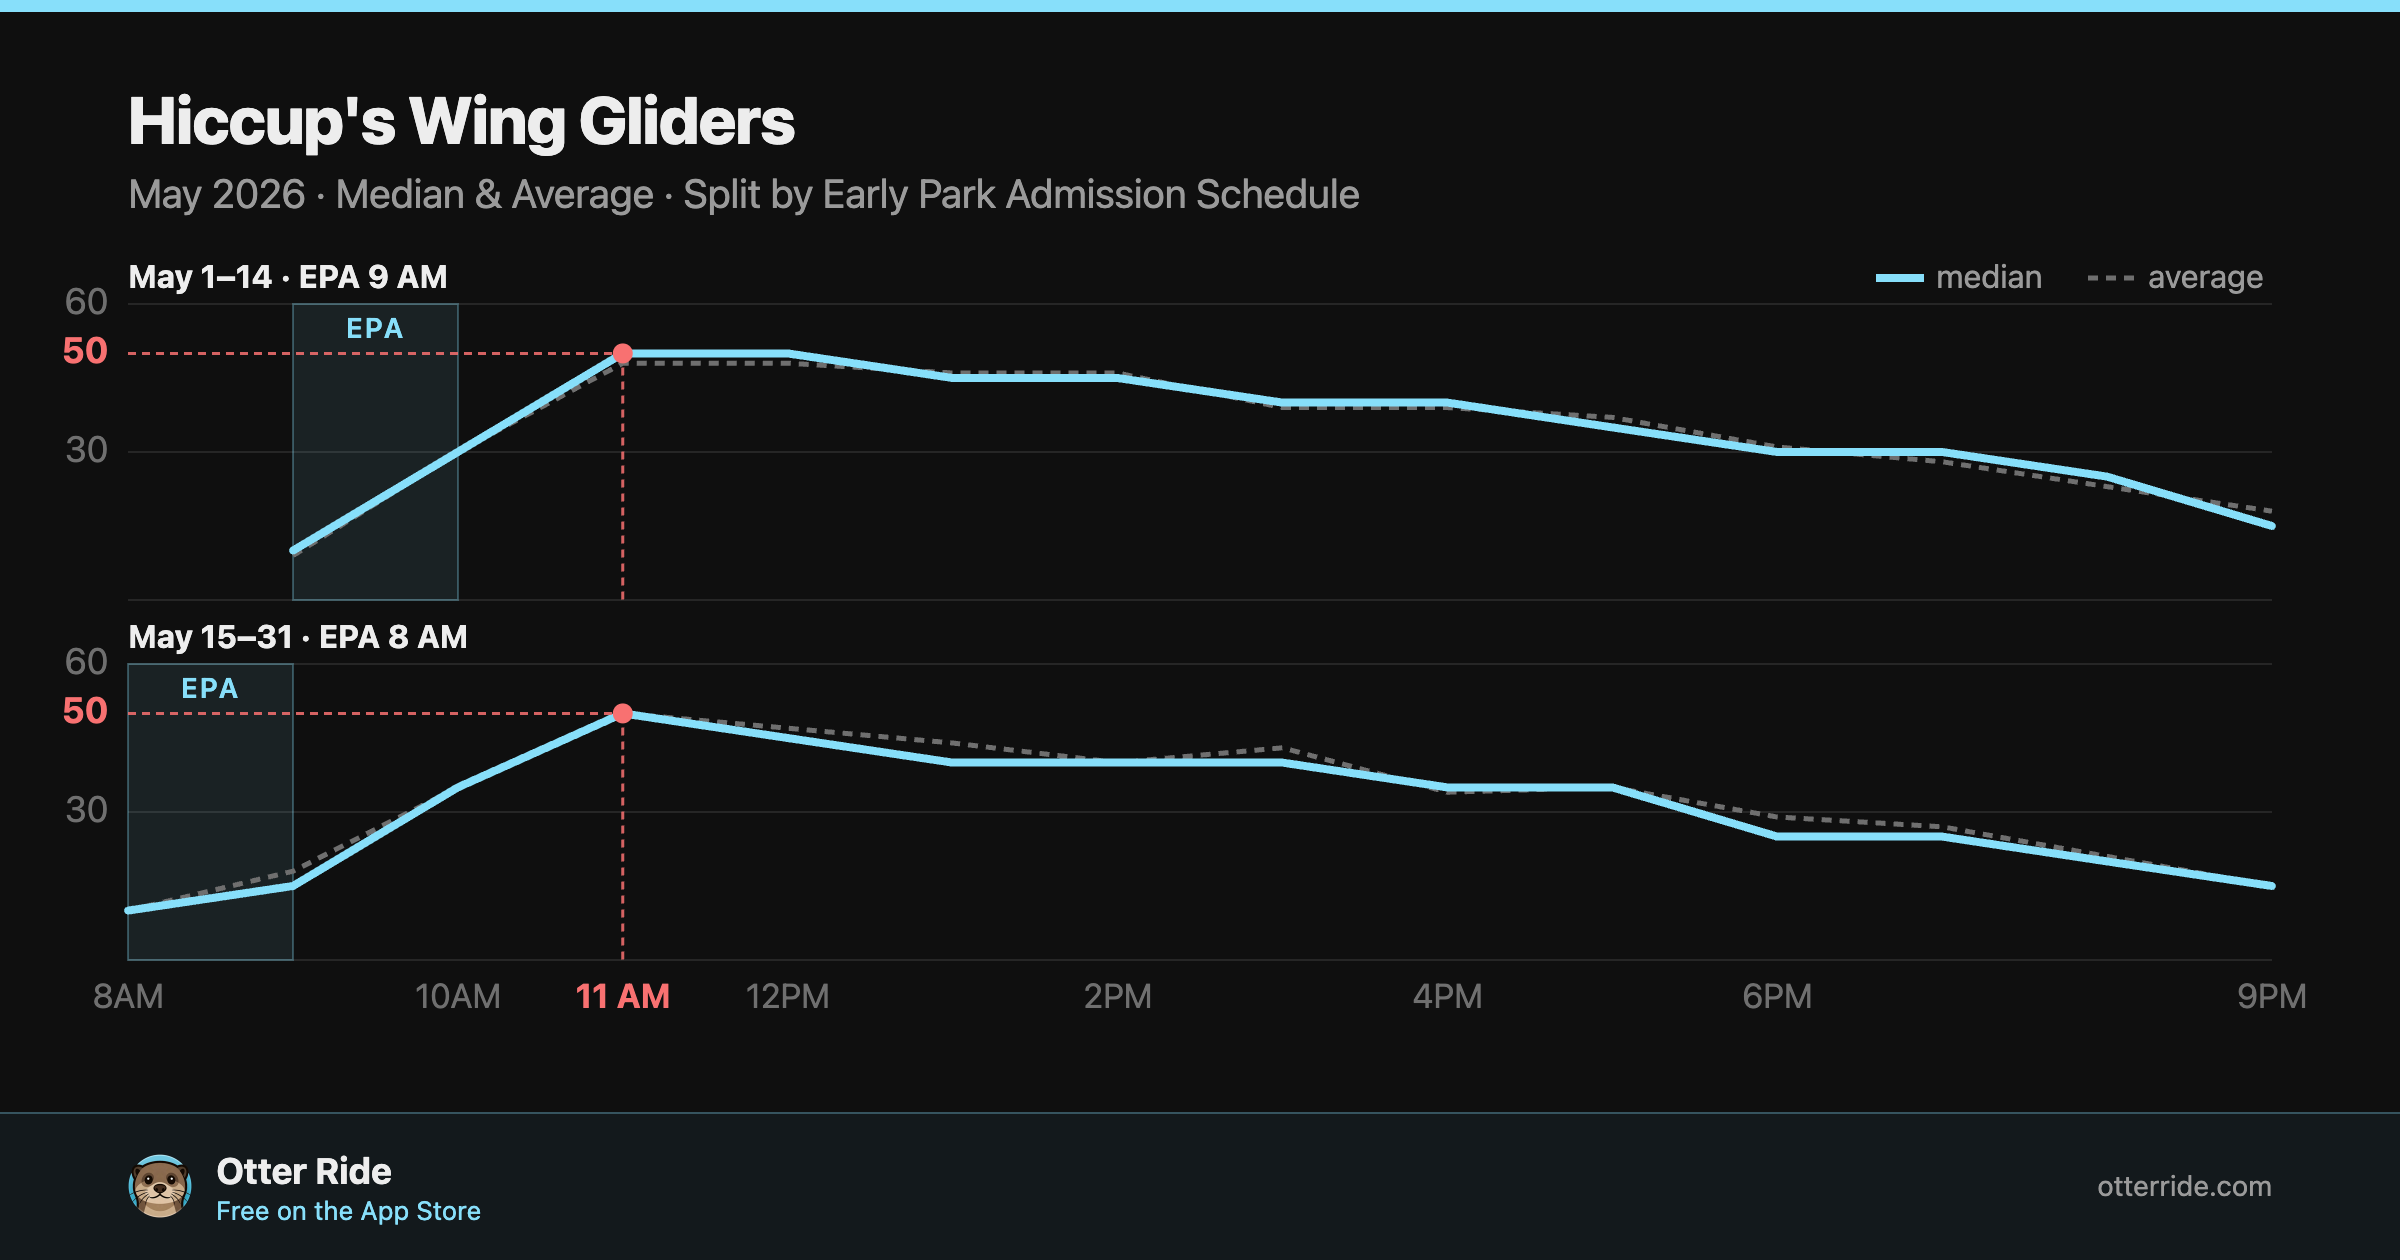
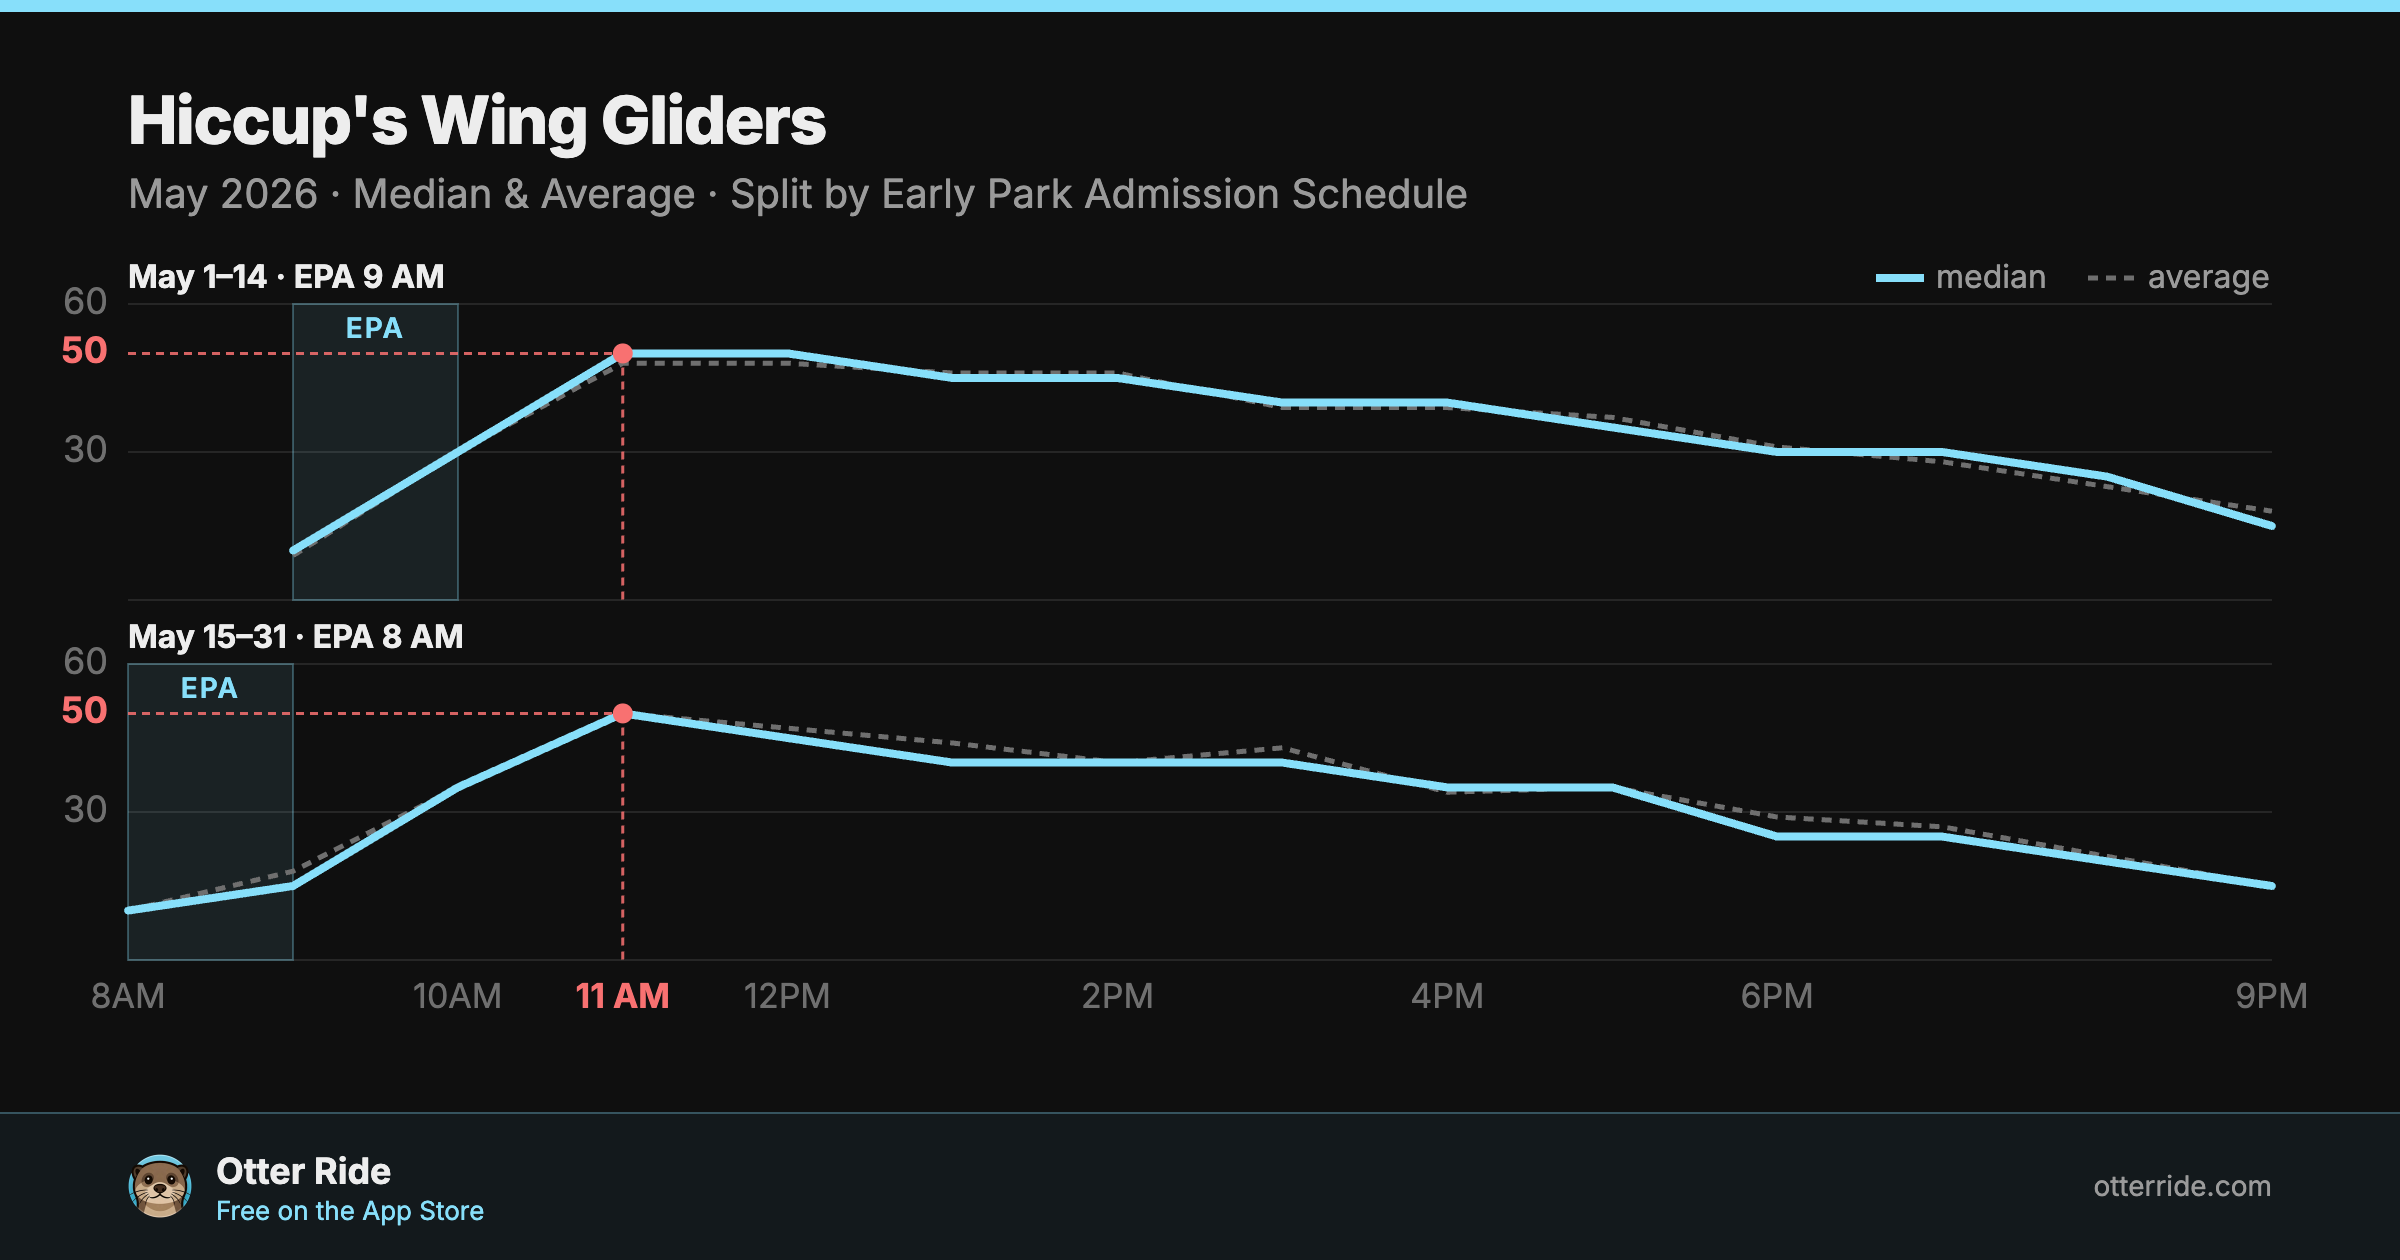
Publish: EPA delays infographic + onset-only EPA rule (Mine-Cart 26%)

diff --git a/otterride/blog/epic-universe-wait-times-may-2026/index.html b/otterride/blog/epic-universe-wait-times-may-2026/index.html
@@ -2,4 +2,4 @@
 <strong>45-minute peak at 11 AM</strong>, holds through midday, then eases back to about <strong>15</strong> by
 close. From 11 AM to 3 PM the median runs <strong>40 minutes</strong>, roughly double the <strong>20-minute</strong>
 median after 7 PM. (Averages sit higher, peaking near 52 minutes, because a few long-wait
-headliners drag the mean up.)</p><p><strong>The first hour and the last two hours generally have lower wait times (with a few exceptions).</strong></p><h2 id=wait-times-barely-vary-by-day-of-the-week>Wait times barely vary by day of the week</h2><figure class=orw-chartimg><img src=/otterride/blog/epic-universe-wait-times-may-2026/day-of-week.png alt="Epic Universe median and average standby wait by day of week, May 2026" loading=lazy></figure><p>Sundays have the lowest wait times and Thursdays the longest, but day to day they barely move: the spread between the best and worst day is about <strong>9 minutes</strong> by average and <strong>10</strong> by median.</p><hr><h2 id=attraction-uptime-was-pretty-good-with-one-outlier>Attraction uptime was pretty good, with one outlier</h2><figure class=orw-chartimg><img src=/otterride/blog/epic-universe-wait-times-may-2026/uptime.png alt="Epic Universe attraction uptime in May 2026, ranked most to least reliable, with weather and non-weather downtime" loading=lazy></figure><figure class=orw-chartimg><img src=/otterride/blog/epic-universe-wait-times-may-2026/closures.png alt="Epic Universe attraction closures in May 2026, ranked by total closures, with days affected, average closure duration, and average wait when the ride went down" loading=lazy></figure><p>Uptime is the share of time a ride was operating during park hours, with downtime split between weather and everything else. Rides that skip Early Park Admission aren&rsquo;t counted as down during that hour. As one would expect, the indoor rides, like Monsters Unchained, Battle at the Ministry, and Mario Kart, didn&rsquo;t log a single weather delay.</p><p>Mine-Cart Madness had issues in May. It ran only <strong>83%</strong> of its operating hours, the lowest uptime of any ride in the park, and most of that downtime was mechanical, not weather. The ride is both popular and, sadly, relatively unavailable about 1/6 of the time. Even with weather delays removed from the equation just for Mine-Cart, it still had the least uptime of any attraction at Epic.</p><hr><h2 id=which-rides-actually-eat-your-day>Which rides actually eat your day</h2><p>Expand any attraction to see how its wait times update across the day.</p><h3 class=orw-land>Super Nintendo World</h3><details class=orw-ride><summary><span class=orw-ride-name>Bowser Jr. Challenge</span></summary><img class=orw-ride-img src=/otterride/blog/epic-universe-wait-times-may-2026/ride-bowser-jr-challenge.png alt="Bowser Jr. Challenge: standby wait by hour, May 2026" loading=lazy></details><details class=orw-ride><summary><span class=orw-ride-name>Mario Kart™: Bowser's Challenge</span></summary><img class=orw-ride-img src=/otterride/blog/epic-universe-wait-times-may-2026/ride-mario-kart-bowser-s-challenge.png alt="Mario Kart™: Bowser's Challenge: standby wait by hour, May 2026" loading=lazy></details><details class=orw-ride><summary><span class=orw-ride-name>Mine-Cart Madness™</span></summary><img class=orw-ride-img src=/otterride/blog/epic-universe-wait-times-may-2026/ride-mine-cart-madness.png alt="Mine-Cart Madness™: standby wait by hour, May 2026" loading=lazy></details><details class=orw-ride><summary><span class=orw-ride-name>Yoshi's Adventure™</span></summary><img class=orw-ride-img src=/otterride/blog/epic-universe-wait-times-may-2026/ride-yoshi-s-adventure.png alt="Yoshi's Adventure™: standby wait by hour, May 2026" loading=lazy></details><h3 class=orw-land>The Wizarding World of Harry Potter: Ministry of Magic</h3><details class=orw-ride><summary><span class=orw-ride-name>Harry Potter and the Battle at the Ministry™</span></summary><img class=orw-ride-img src=/otterride/blog/epic-universe-wait-times-may-2026/ride-harry-potter-and-the-battle-at-the-ministry.png alt="Harry Potter and the Battle at the Ministry™: standby wait by hour, May 2026" loading=lazy></details><h3 class=orw-land>How to Train Your Dragon: Isle of Berk</h3><details class=orw-ride><summary><span class=orw-ride-name>Dragon Racer's Rally</span></summary><img class=orw-ride-img src=/otterride/blog/epic-universe-wait-times-may-2026/ride-dragon-racer-s-rally.png alt="Dragon Racer's Rally: standby wait by hour, May 2026" loading=lazy></details><details class=orw-ride><summary><span class=orw-ride-name>Fyre Drill</span></summary><img class=orw-ride-img src=/otterride/blog/epic-universe-wait-times-may-2026/ride-fyre-drill.png alt="Fyre Drill: standby wait by hour, May 2026" loading=lazy></details><details class=orw-ride><summary><span class=orw-ride-name>Hiccup's Wing Gliders</span></summary><img class=orw-ride-img src=/otterride/blog/epic-universe-wait-times-may-2026/ride-hiccup-s-wing-gliders.png alt="Hiccup's Wing Gliders: standby wait by hour, May 2026" loading=lazy></details><details class=orw-ride><summary><span class=orw-ride-name>Meet Toothless and Friends</span></summary><img class=orw-ride-img src=/otterride/blog/epic-universe-wait-times-may-2026/ride-meet-toothless-and-friends.png alt="Meet Toothless and Friends: standby wait by hour, May 2026" loading=lazy></details><h3 class=orw-land>Dark Universe</h3><details class=orw-ride><summary><span class=orw-ride-name>Curse of the Werewolf</span></summary><img class=orw-ride-img src=/otterride/blog/epic-universe-wait-times-may-2026/ride-curse-of-the-werewolf.png alt="Curse of the Werewolf: standby wait by hour, May 2026" loading=lazy></details><details class=orw-ride><summary><span class=orw-ride-name>Monsters Unchained: The Frankenstein Experiment</span></summary><img class=orw-ride-img src=/otterride/blog/epic-universe-wait-times-may-2026/ride-monsters-unchained-the-frankenstein-experiment.png alt="Monsters Unchained: The Frankenstein Experiment: standby wait by hour, May 2026" loading=lazy></details><h3 class=orw-land>Celestial Park</h3><details class=orw-ride><summary><span class=orw-ride-name>Constellation Carousel</span></summary><img class=orw-ride-img src=/otterride/blog/epic-universe-wait-times-may-2026/ride-constellation-carousel.png alt="Constellation Carousel: standby wait by hour, May 2026" loading=lazy></details><details class=orw-ride><summary><span class=orw-ride-name>Stardust Racers</span></summary><img class=orw-ride-img src=/otterride/blog/epic-universe-wait-times-may-2026/ride-stardust-racers.png alt="Stardust Racers: standby wait by hour, May 2026" loading=lazy></details><hr><h2 id=final-notes-for-may-2026>Final notes for May 2026</h2><ul><li>Any day is good to go to Epic Universe, with Sunday having <em>slightly</em> lower wait times.</li><li>Mine-Cart Madness is extremely popular, and it&rsquo;s an amazing ride, so everyone wants on it&mldr;you just gotta wait. It averaged a <strong>102-minute</strong> standby, peaking about two hours after open, and it&rsquo;s hard to get on quickly at any time of day. If you have Early Park Admission and the ride is running, this is a great one to hit first. But it&rsquo;s a gamble: Mine-Cart has been plagued by delays, and on <strong>35% of EPA mornings</strong> it went down, so you could burn your head start waiting for it to come back. Brutal!</li><li>In May, 3–7 PM was the window for afternoon storms. Consider hitting up rides that are not affected by rain, such as Mario Kart or Monsters Unchained.</li><li>Arguably the best coaster in the park (and perhaps even all of Orlando), Stardust Racers, averaged <strong>barely 20 minutes</strong>. That&rsquo;s amazing!</li><li>Celestial Park is relatively more busy at the end of the day, which contrasts with nearly all of the other attractions.</li></ul><aside class=orw-cta><img class=orw-cta-icon src=/otterride/otter-head-icon.png alt width=64 height=64><div class=orw-cta-text><p class=orw-cta-title>Plan your Epic Universe day in real time</p><p class=orw-cta-sub>OtterRide shows live Universal Orlando wait times. Free on the App Store.</p></div><a class=orw-cta-link href=https://apps.apple.com/us/app/otterride/id6767819818 aria-label="Download OtterRide on the App Store"><img src=/otterride/app-store-badge.svg alt="Download on the App Store" width=160 height=54></a></aside></div><footer class=orw-article-foot><p class=orw-method>53,841 standby readings during operating hours, all 31 days of May 2026. Wait times are OtterRide's standby readings, captured every few minutes across the operating day; "closed" and unavailable readings are excluded. All times Eastern.</p><a class=orw-back href=/otterride/blog/>← All articles</a></footer></article></main><footer class=orw-footer><p>OtterRide is an independent app and is not affiliated with, endorsed by, or sponsored by Universal Studios, NBCUniversal, or any of their subsidiaries or affiliates.</p><p>&copy; 2026 Infinite Jawbreaker LLC</p></footer></body></html>
+headliners drag the mean up.)</p><p><strong>The first hour and the last two hours generally have lower wait times (with a few exceptions).</strong></p><h2 id=wait-times-barely-vary-by-day-of-the-week>Wait times barely vary by day of the week</h2><figure class=orw-chartimg><img src=/otterride/blog/epic-universe-wait-times-may-2026/day-of-week.png alt="Epic Universe median and average standby wait by day of week, May 2026" loading=lazy></figure><p>Sundays have the lowest wait times and Thursdays the longest, but day to day they barely move: the spread between the best and worst day is about <strong>9 minutes</strong> by average and <strong>10</strong> by median.</p><hr><h2 id=attraction-uptime-was-pretty-good-with-one-outlier>Attraction uptime was pretty good, with one outlier</h2><figure class=orw-chartimg><img src=/otterride/blog/epic-universe-wait-times-may-2026/uptime.png alt="Epic Universe attraction uptime in May 2026, ranked most to least reliable, with weather and non-weather downtime" loading=lazy></figure><figure class=orw-chartimg><img src=/otterride/blog/epic-universe-wait-times-may-2026/closures.png alt="Epic Universe attraction closures in May 2026, ranked by total closures, with days affected, average closure duration, and average wait when the ride went down" loading=lazy></figure><figure class=orw-chartimg><img src=/otterride/blog/epic-universe-wait-times-may-2026/epa-delays.png alt="Epic Universe rides ranked by the odds of running into a delay during Early Park Admission in May 2026, safest first" loading=lazy></figure><p>Uptime is the share of time a ride was operating during park hours, with downtime split between weather and everything else. Rides that skip Early Park Admission aren&rsquo;t counted as down during that hour. As one would expect, the indoor rides, like Monsters Unchained, Battle at the Ministry, and Mario Kart, didn&rsquo;t log a single weather delay.</p><p>Mine-Cart Madness had issues in May. It ran only <strong>83%</strong> of its operating hours, the lowest uptime of any ride in the park, and most of that downtime was mechanical, not weather. The ride is both popular and, sadly, relatively unavailable about 1/6 of the time. Even with weather delays removed from the equation just for Mine-Cart, it still had the least uptime of any attraction at Epic.</p><hr><h2 id=which-rides-actually-eat-your-day>Which rides actually eat your day</h2><p>Expand any attraction to see how its wait times update across the day.</p><h3 class=orw-land>Super Nintendo World</h3><details class=orw-ride><summary><span class=orw-ride-name>Bowser Jr. Challenge</span></summary><img class=orw-ride-img src=/otterride/blog/epic-universe-wait-times-may-2026/ride-bowser-jr-challenge.png alt="Bowser Jr. Challenge: standby wait by hour, May 2026" loading=lazy></details><details class=orw-ride><summary><span class=orw-ride-name>Mario Kart™: Bowser's Challenge</span></summary><img class=orw-ride-img src=/otterride/blog/epic-universe-wait-times-may-2026/ride-mario-kart-bowser-s-challenge.png alt="Mario Kart™: Bowser's Challenge: standby wait by hour, May 2026" loading=lazy></details><details class=orw-ride><summary><span class=orw-ride-name>Mine-Cart Madness™</span></summary><img class=orw-ride-img src=/otterride/blog/epic-universe-wait-times-may-2026/ride-mine-cart-madness.png alt="Mine-Cart Madness™: standby wait by hour, May 2026" loading=lazy></details><details class=orw-ride><summary><span class=orw-ride-name>Yoshi's Adventure™</span></summary><img class=orw-ride-img src=/otterride/blog/epic-universe-wait-times-may-2026/ride-yoshi-s-adventure.png alt="Yoshi's Adventure™: standby wait by hour, May 2026" loading=lazy></details><h3 class=orw-land>The Wizarding World of Harry Potter: Ministry of Magic</h3><details class=orw-ride><summary><span class=orw-ride-name>Harry Potter and the Battle at the Ministry™</span></summary><img class=orw-ride-img src=/otterride/blog/epic-universe-wait-times-may-2026/ride-harry-potter-and-the-battle-at-the-ministry.png alt="Harry Potter and the Battle at the Ministry™: standby wait by hour, May 2026" loading=lazy></details><h3 class=orw-land>How to Train Your Dragon: Isle of Berk</h3><details class=orw-ride><summary><span class=orw-ride-name>Dragon Racer's Rally</span></summary><img class=orw-ride-img src=/otterride/blog/epic-universe-wait-times-may-2026/ride-dragon-racer-s-rally.png alt="Dragon Racer's Rally: standby wait by hour, May 2026" loading=lazy></details><details class=orw-ride><summary><span class=orw-ride-name>Fyre Drill</span></summary><img class=orw-ride-img src=/otterride/blog/epic-universe-wait-times-may-2026/ride-fyre-drill.png alt="Fyre Drill: standby wait by hour, May 2026" loading=lazy></details><details class=orw-ride><summary><span class=orw-ride-name>Hiccup's Wing Gliders</span></summary><img class=orw-ride-img src=/otterride/blog/epic-universe-wait-times-may-2026/ride-hiccup-s-wing-gliders.png alt="Hiccup's Wing Gliders: standby wait by hour, May 2026" loading=lazy></details><details class=orw-ride><summary><span class=orw-ride-name>Meet Toothless and Friends</span></summary><img class=orw-ride-img src=/otterride/blog/epic-universe-wait-times-may-2026/ride-meet-toothless-and-friends.png alt="Meet Toothless and Friends: standby wait by hour, May 2026" loading=lazy></details><h3 class=orw-land>Dark Universe</h3><details class=orw-ride><summary><span class=orw-ride-name>Curse of the Werewolf</span></summary><img class=orw-ride-img src=/otterride/blog/epic-universe-wait-times-may-2026/ride-curse-of-the-werewolf.png alt="Curse of the Werewolf: standby wait by hour, May 2026" loading=lazy></details><details class=orw-ride><summary><span class=orw-ride-name>Monsters Unchained: The Frankenstein Experiment</span></summary><img class=orw-ride-img src=/otterride/blog/epic-universe-wait-times-may-2026/ride-monsters-unchained-the-frankenstein-experiment.png alt="Monsters Unchained: The Frankenstein Experiment: standby wait by hour, May 2026" loading=lazy></details><h3 class=orw-land>Celestial Park</h3><details class=orw-ride><summary><span class=orw-ride-name>Constellation Carousel</span></summary><img class=orw-ride-img src=/otterride/blog/epic-universe-wait-times-may-2026/ride-constellation-carousel.png alt="Constellation Carousel: standby wait by hour, May 2026" loading=lazy></details><details class=orw-ride><summary><span class=orw-ride-name>Stardust Racers</span></summary><img class=orw-ride-img src=/otterride/blog/epic-universe-wait-times-may-2026/ride-stardust-racers.png alt="Stardust Racers: standby wait by hour, May 2026" loading=lazy></details><hr><h2 id=final-notes-for-may-2026>Final notes for May 2026</h2><ul><li>Any day is good to go to Epic Universe, with Sunday having <em>slightly</em> lower wait times.</li><li>Mine-Cart Madness is extremely popular, and it&rsquo;s an amazing ride, so everyone wants on it&mldr;you just gotta wait. It averaged a <strong>102-minute</strong> standby, peaking about two hours after open, and it&rsquo;s hard to get on quickly at any time of day. If you have Early Park Admission and the ride is running, this is a great one to hit first. But it&rsquo;s a gamble: Mine-Cart has been plagued by delays, and on <strong>26% of EPA mornings</strong> it went down, so you could burn your head start waiting for it to come back. Brutal!</li><li>In May, 3–7 PM was the window for afternoon storms. Consider hitting up rides that are not affected by rain, such as Mario Kart or Monsters Unchained.</li><li>Arguably the best coaster in the park (and perhaps even all of Orlando), Stardust Racers, averaged <strong>barely 20 minutes</strong>. That&rsquo;s amazing!</li><li>Celestial Park is relatively more busy at the end of the day, which contrasts with nearly all of the other attractions.</li></ul><aside class=orw-cta><img class=orw-cta-icon src=/otterride/otter-head-icon.png alt width=64 height=64><div class=orw-cta-text><p class=orw-cta-title>Plan your Epic Universe day in real time</p><p class=orw-cta-sub>OtterRide shows live Universal Orlando wait times. Free on the App Store.</p></div><a class=orw-cta-link href=https://apps.apple.com/us/app/otterride/id6767819818 aria-label="Download OtterRide on the App Store"><img src=/otterride/app-store-badge.svg alt="Download on the App Store" width=160 height=54></a></aside></div><footer class=orw-article-foot><p class=orw-method>53,841 standby readings during operating hours, all 31 days of May 2026. Wait times are OtterRide's standby readings, captured every few minutes across the operating day; "closed" and unavailable readings are excluded. All times Eastern.</p><a class=orw-back href=/otterride/blog/>← All articles</a></footer></article></main><footer class=orw-footer><p>OtterRide is an independent app and is not affiliated with, endorsed by, or sponsored by Universal Studios, NBCUniversal, or any of their subsidiaries or affiliates.</p><p>&copy; 2026 Infinite Jawbreaker LLC</p></footer></body></html>